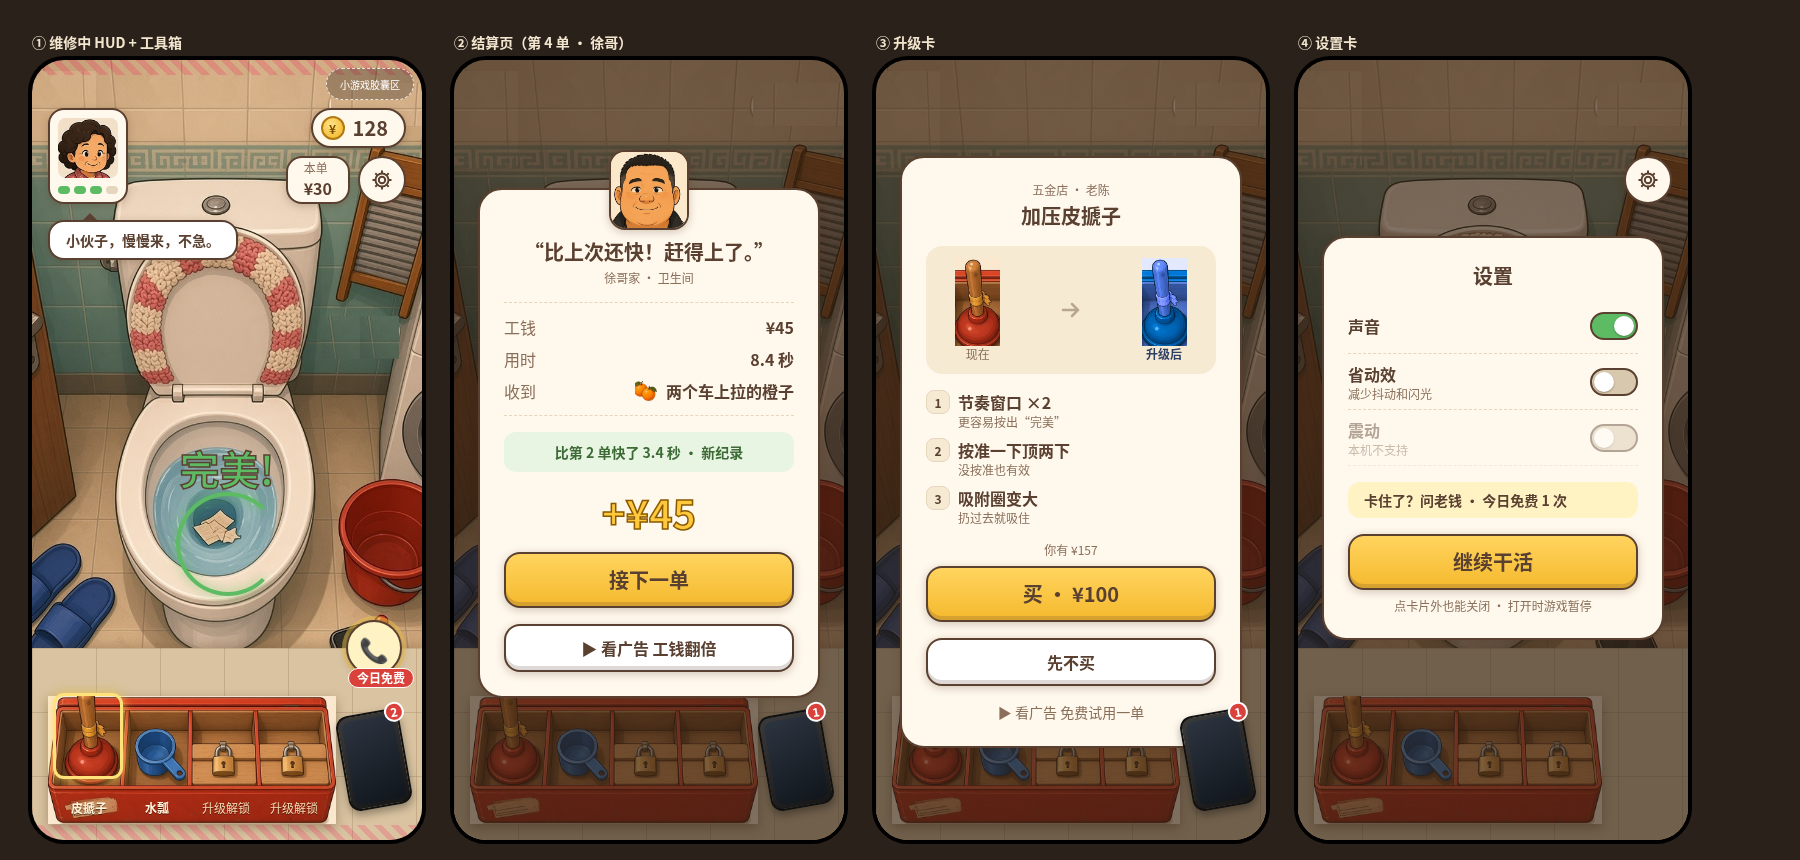
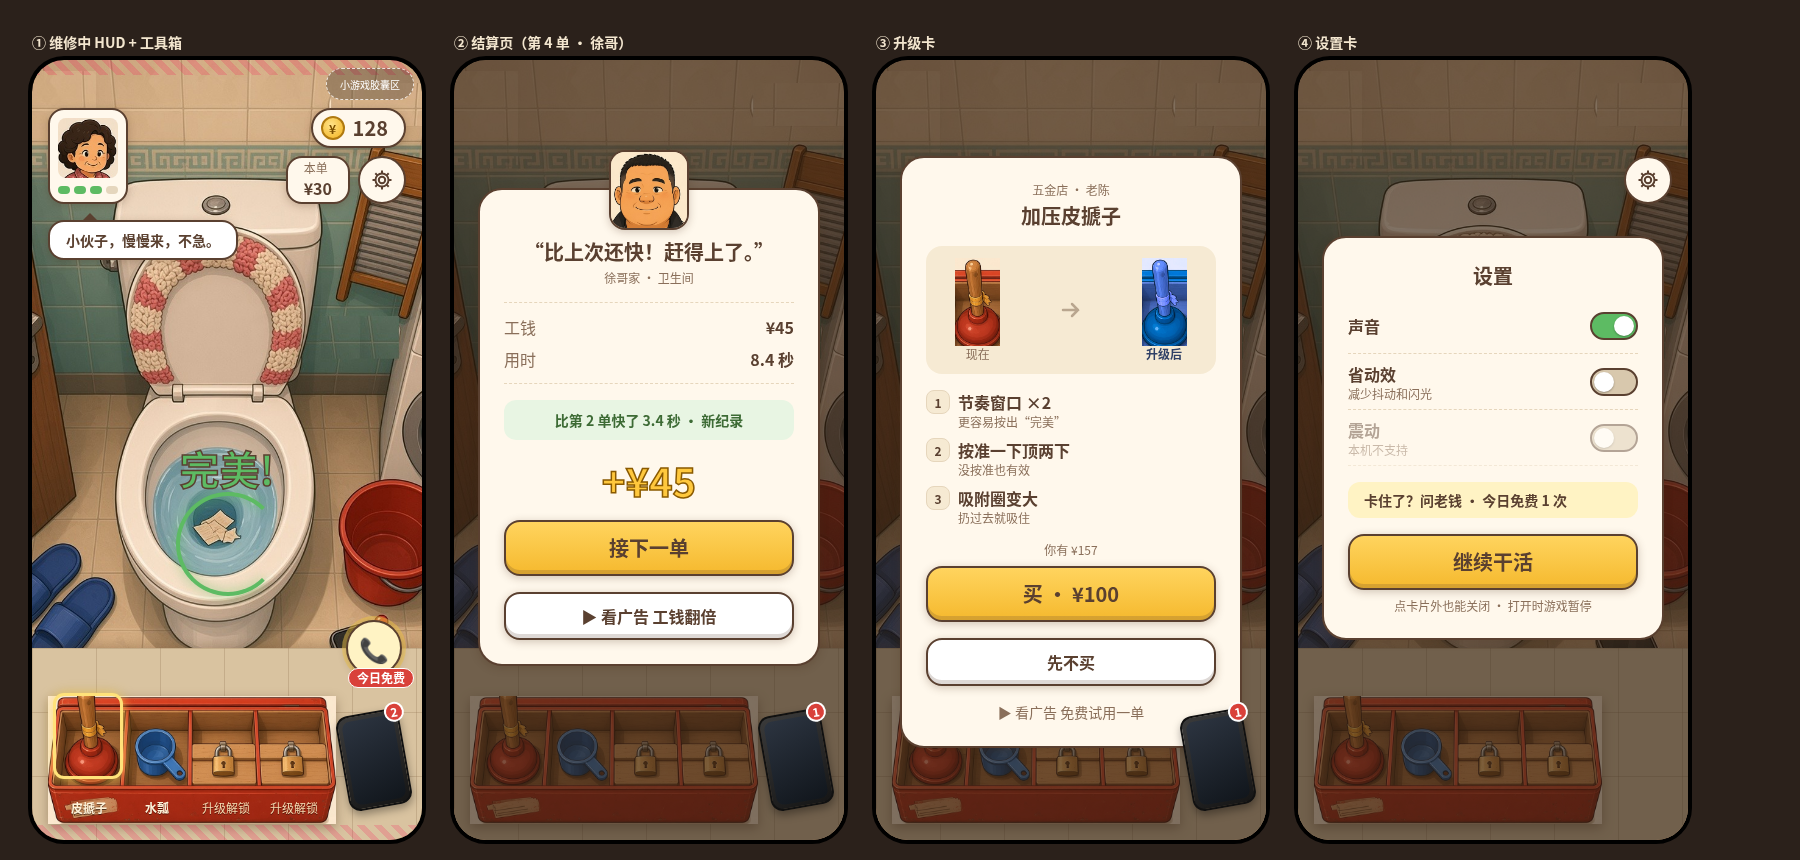
UI: o4 settlement has no gift row (per script)

Changed region(s): [[0.2489, 0.4233, 0.4667, 0.8163], [0.28, 0.4535, 0.3111, 0.4837]]

diff --git a/design/ui/hifi/hifi_v1.html b/design/ui/hifi/hifi_v1.html
@@ -87,7 +87,6 @@ body{background:#2b211b;font-family:"Noto Sans CJK SC",sans-serif;color:var(--in
   <div style="padding:8px 0">
    <div class="kv t3"><span class="mute">工钱</span><b>¥45</b></div>
    <div class="kv t3"><span class="mute">用时</span><b>8.4 秒</b></div>
-   <div class="kv t3"><span class="mute">收到</span><b style="display:flex;align-items:center;gap:8px"><img src="../../../assets/ui/gifts/gift_oranges_24@2x.png" style="width:24px;height:24px">两个车上拉的橙子</b></div>
   </div>
   <div class="hr"></div>
   <div class="t4 b c" style="margin-top:16px;height:40px;line-height:40px;border-radius:12px;background:var(--okbg);color:#3d6b35">比第 2 单快了 3.4 秒 · 新纪录</div>

diff --git a/design/ui/hifi/ui-spec.md b/design/ui/hifi/ui-spec.md
@@ -64,7 +64,7 @@
 - 结算、升级、设置这几个弹层打开时，手机放在遮罩上面，只显示红点 +1，不弹通知条。
 - 问老钱：56 的圆形按钮，和手机中心对齐，放在手机正上方（right 20 / top 560）。平时半透明，触发后亮起，外圈加一道金色光晕，晃一下。角标第一次写「今日免费」，之后写「▶广告」，这一单用过就隐藏。触发条件不变。
 
-## ② 结算页（效果图是第 4 单 · 徐哥）
+## ② 结算页（效果图是第 4 单 · 徐哥，这单剧本里没有打赏，所以不显示打赏行）
 - 卡片 top 128。客户头像 80，圆角 16，一半压在卡片顶边上。
 - 从上往下：客户那句话（T2）→ 地点（T5）→ 虚线 → 明细行 → 虚线 → 对比条 → 金额（T1）→ 主按钮 → 次按钮，各块之间隔 16。
 - 明细行：「工钱」「用时」两行一直有，「小费」这一行删掉。只有客户打赏时，才多出一行：给现金写「客户硬塞 ¥5」，给东西写「收到 两个车上拉的橙子」，标签取叙事配置里的 `settle_row_label`。这一行的数值前面放 24×24 的打赏图标，用 `assets/ui/gifts/gift_*_24@2x.png`，图标和文字间隔 8、垂直居中；给现金时用 `gift_cashroll_24`。
